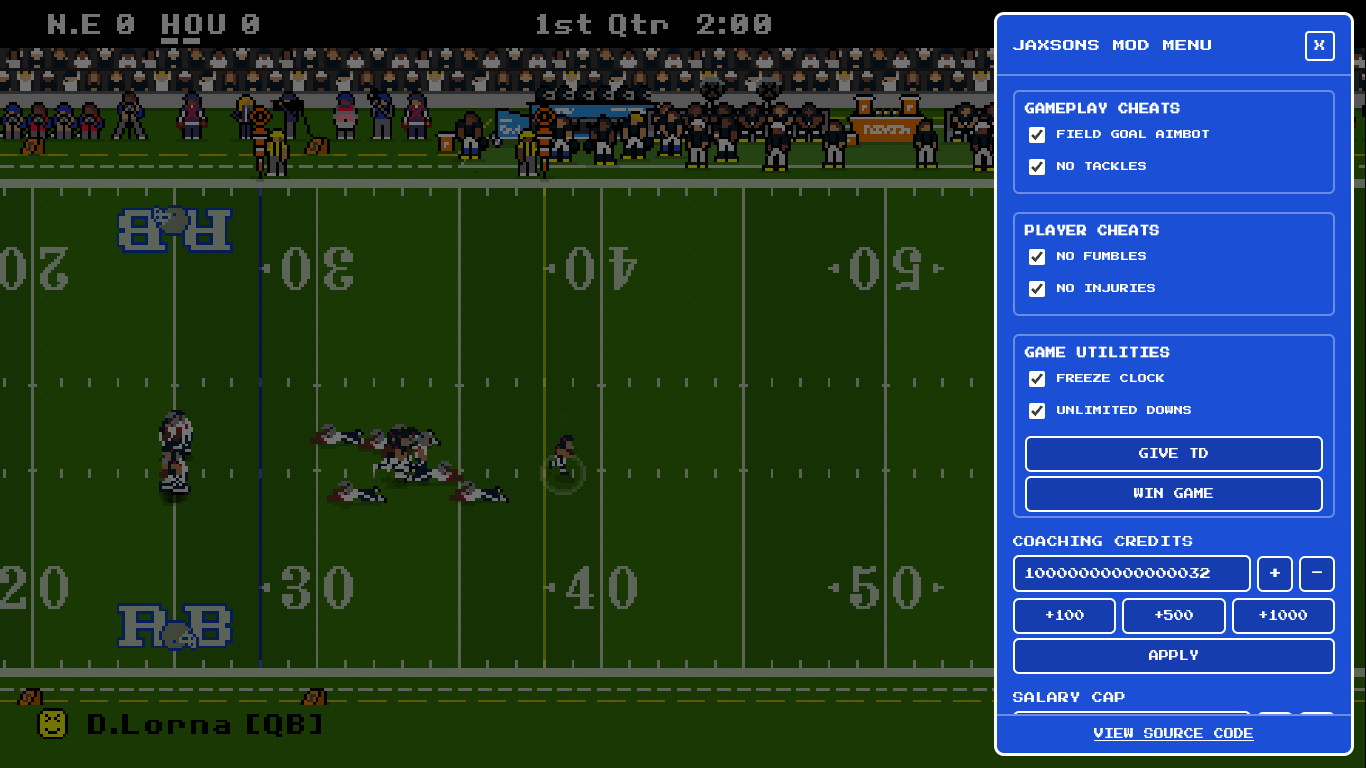
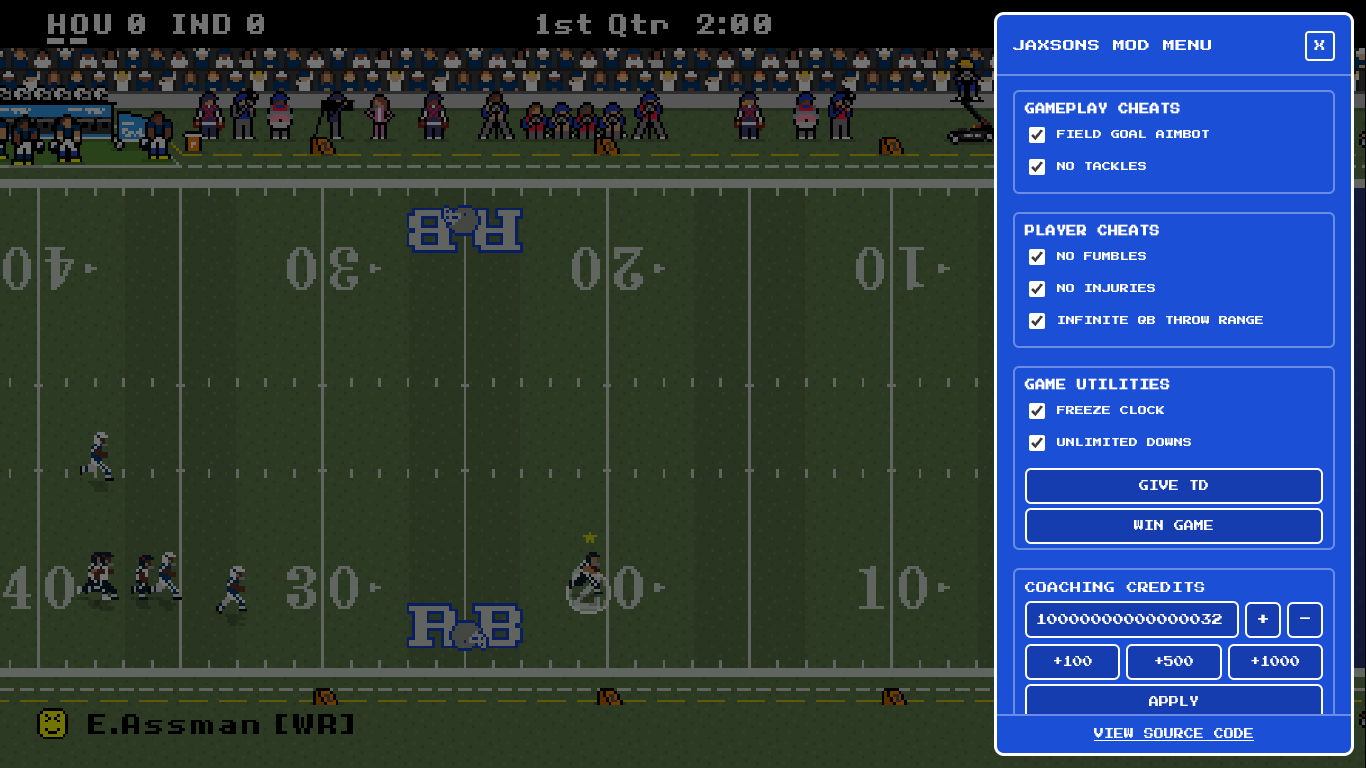
small changes

diff --git a/mod-menu.js b/mod-menu.js
@@ -1,7 +1,11 @@
 (function () {
   function boot() {
-    if (typeof GameMaker_Init === "function") GameMaker_Init();
-    else setTimeout(boot, 40);
+    if (typeof GameMaker_Init !== "function") {
+      setTimeout(boot, 40);
+      return;
+    }
+    GameMaker_Init();
+    installGameplayHooks();
   }
   window.addEventListener("load", function () {
     window.PokiSDK = null;
@@ -21,6 +25,7 @@
     noTackles: false,
     noFumbles: false,
     noInjuries: false,
+    infiniteQBThrowRange: false,
     freezeClock: false,
     unlimitedDowns: false
   };
@@ -49,35 +54,58 @@
 
   function installGameplayHooks() {
     var originalDropBall = window._W31;
-    if (typeof originalDropBall === "function") {
+    if (typeof originalDropBall === "function" && !originalDropBall.__jaxHooked) {
       window._W31 = function () {
         if (gameplayMods.noFumbles) return;
         return originalDropBall.apply(this, arguments);
       };
+      window._W31.__jaxHooked = true;
     }
     var originalInjuryCheck = window._mf1;
-    if (typeof originalInjuryCheck === "function") {
+    if (typeof originalInjuryCheck === "function" && !originalInjuryCheck.__jaxHooked) {
       window._mf1 = function () {
         if (gameplayMods.noInjuries) return 0;
         return originalInjuryCheck.apply(this, arguments);
       };
+      window._mf1.__jaxHooked = true;
     }
     var originalSubtractTime = window._Ad1;
-    if (typeof originalSubtractTime === "function") {
+    if (typeof originalSubtractTime === "function" && !originalSubtractTime.__jaxHooked) {
       window._Ad1 = function () {
         if (gameplayMods.freezeClock) return;
         return originalSubtractTime.apply(this, arguments);
       };
+      window._Ad1.__jaxHooked = true;
     }
     var originalTackle = window._f81;
-    if (typeof originalTackle === "function") {
+    if (typeof originalTackle === "function" && !originalTackle.__jaxHooked) {
       window._f81 = function () {
         if (gameplayMods.noTackles) return;
         return originalTackle.apply(this, arguments);
       };
+      window._f81.__jaxHooked = true;
+    }
+    var originalAim = window._k01;
+    if (typeof originalAim === "function" && !originalAim.__jaxHooked) {
+      window._k01 = function () {
+        if (!gameplayMods.infiniteQBThrowRange || typeof window.min !== "function") {
+          return originalAim.apply(this, arguments);
+        }
+        var nativeMin = window.min;
+        window.min = function (first, second) {
+          if (second === 100 && first > 100) return first;
+          return nativeMin.apply(this, arguments);
+        };
+        try {
+          return originalAim.apply(this, arguments);
+        } finally {
+          window.min = nativeMin;
+        }
+      };
+      window._k01.__jaxHooked = true;
     }
     var originalKick = window._y11;
-    if (typeof originalKick === "function") {
+    if (typeof originalKick === "function" && !originalKick.__jaxHooked) {
       window._y11 = function () {
         if (gameplayMods.fieldGoalAimbot && arguments[0]) {
           arguments[0]._D11 = 55;
@@ -85,12 +113,14 @@
         }
         return originalKick.apply(this, arguments);
       };
+      window._y11.__jaxHooked = true;
     }
   }
 
   function applyMatchControls() {
     if (typeof window._si !== "function") return;
     try {
+      installGameplayHooks();
       var matches = window._si(71);
       matches.forEach(function (match) {
         if (match._r11 === undefined || match._s11 === undefined || match._t11 === undefined) return;
@@ -146,14 +176,26 @@
     } catch (err) {}
   }
 
+  function activeMatch() {
+    if (typeof window._si !== "function") return null;
+    var matches = window._si(71);
+    var match = matches && matches.length ? matches[0] : null;
+    if (!match || match._r11 === undefined || match._s11 === undefined || match._t11 === undefined) return null;
+    return match;
+  }
+
   function giveTouchdown() {
-    queueAction("Touchdown given. Returning you to the play.", function () {
+    var match = activeMatch();
+    if (!match) {
+      alert("You must be in a game.");
+      return;
+    }
+    queueAction("Touchdown given. Choose 1 or 2 points after the touchdown.", function () {
       var controller = activeController();
-      if (!controller || typeof window._si !== "function" || typeof window._hB !== "function") return;
-      var matches = window._si(71);
-      var match = matches && matches.length ? matches[0] : null;
-      if (!match) return;
+      if (!controller || typeof window._hB !== "function") return;
       clearGameDialogs(controller);
+      match._6F = 40;
+      match._l61 = 10;
       match._UD = match._0z;
       setGamePaused(false);
       window._hB(controller, controller, 1);
@@ -162,12 +204,15 @@
   }
 
   function winGame() {
+    var match = activeMatch();
+    if (!match) {
+      alert("You must be in a game.");
+      return;
+    }
     queueAction("Win Game is running now. Close the menu when you are ready.", function () {
       var controller = activeController();
-      if (!controller || typeof window._5g1 !== "function" || typeof window._si !== "function") return;
-      var matches = window._si(71);
-      var match = matches && matches.length ? matches[0] : null;
-      if (match && match._Sb1 && match._0z !== undefined) {
+      if (!controller || typeof window._5g1 !== "function") return;
+      if (match._Sb1 && match._0z !== undefined) {
         var playerSide = match._0z;
         var opponentSide = playerSide ? 0 : 1;
         match._Sb1[playerSide] = 67;
@@ -336,12 +381,6 @@
   };
   document.getElementById("a-salary").onclick = function () {
     if (setField("salary_cap", val("v-salary"))) notifyRefresh();
-  };
-  document.getElementById("a-salary-max").onclick = function () {
-    document.getElementById("v-salary").value = "999999999";
-    setField("salary_cap", "999999999");
-    setField("boost_salary_cap", "999999999");
-    notifyRefresh();
   };
   document.getElementById("a-fans").onclick = function () {
     if (setField("fans", val("v-fans"))) notifyRefresh();

diff --git a/index.html b/index.html
@@ -55,7 +55,7 @@ div.gm4html5_div_class{margin:0;padding:0;border:0}
 #jax-body::-webkit-scrollbar{display:none}
 #jax-foot{padding:12px 16px 14px;border-top:2px solid rgba(255,255,255,.35);flex-shrink:0;text-align:center}
 #jax-foot a{font-family:"Press Start 2P",monospace;font-size:10px;color:#fff;text-decoration:underline}
-.sec{margin-bottom:18px}
+.sec{margin:0 0 18px;padding:12px 10px 4px;border:2px solid rgba(255,255,255,.35);border-radius:6px}
 .sec label{display:block;margin:0 0 8px;font-size:11px;color:#fff;letter-spacing:.3px}
 .mod-category{margin:0 0 18px;padding:12px 10px 4px;border:2px solid rgba(255,255,255,.35);border-radius:6px}
 .mod-category>h2{margin:0 0 10px;font-size:10px;color:#fff;letter-spacing:.4px}
@@ -133,6 +133,7 @@ div.gm4html5_div_class{margin:0;padding:0;border:0}
       <h2>PLAYER CHEATS</h2>
       <label class="mod-toggle"><input type="checkbox" data-mod="noFumbles">NO FUMBLES</label>
       <label class="mod-toggle"><input type="checkbox" data-mod="noInjuries">NO INJURIES</label>
+      <label class="mod-toggle"><input type="checkbox" data-mod="infiniteQBThrowRange">INFINITE QB THROW RANGE</label>
     </div>
     <div class="mod-category">
       <h2>GAME UTILITIES</h2>
@@ -162,7 +163,6 @@ div.gm4html5_div_class{margin:0;padding:0;border:0}
         <button class="sq" type="button" id="s-plus">+</button>
         <button class="sq" type="button" id="s-minus">-</button>
       </div>
-      <button class="fullbtn" type="button" id="a-salary-max">MAX</button>
       <button class="fullbtn" type="button" id="a-salary">APPLY</button>
     </div>
     <div class="sec">
